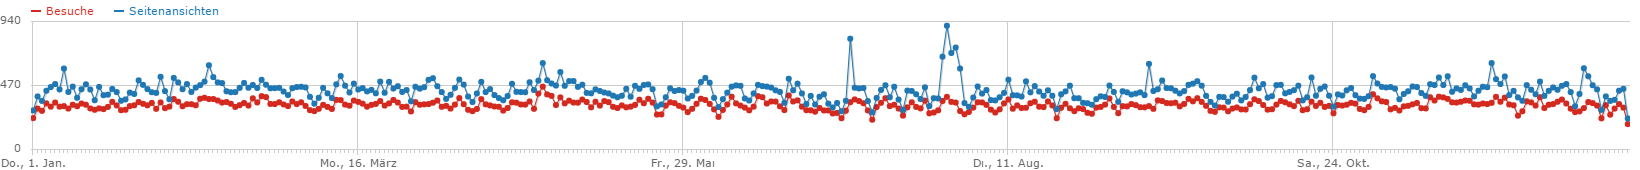
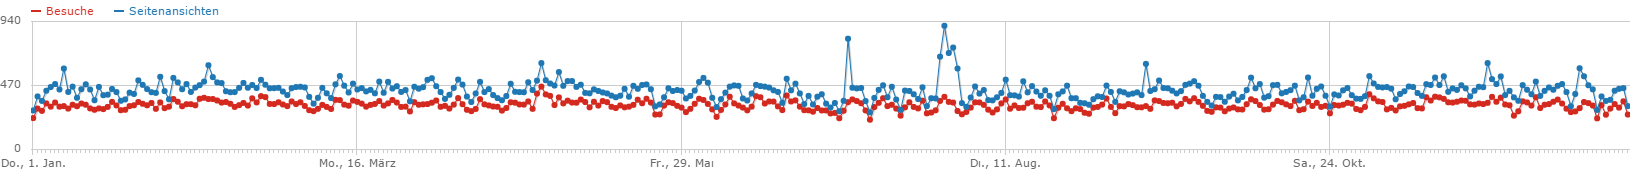
Statistiken im Jahresrückblick aktualisiert

diff --git a/content/artikel/jahresrueckblick-das-war-2015.md b/content/artikel/jahresrueckblick-das-war-2015.md
@@ -37,11 +37,10 @@ Neben Facebook, Twitter und dem RSS-Feed biete ich seit kurzem auch einen [Teleg
 
 ### Statistiken
 Da die meisten Menschen Statistiken und Diagramme mögen, möchte ich auch an dieser Stelle ein paar Kernmetriken aus Piwik vorstellen.
-Stand der Daten ist der 30.12.2015 um ca. 16:00 Uhr (man möge mir die fehlenden 32 Stunden verzeihen).
 
 #### Besucherzahlen
-Insgesamt kommt dieser Blog auf rund 117.100 Besuche im letzten Jahr, was durchschnittlich ca. 9.800 Besuche im Monat bedeutet.
-Im Bezug auf die Seitenansichten liegt der Wert bei rund 157.000 Ansichten im Jahr, bzw. durchschnittlich ca. 13.000 Ansichten im Monat.
+Insgesamt kommt dieser Blog auf rund 117.600 Besuche im letzten Jahr, was durchschnittlich ca. 9.800 Besuche im Monat bedeutet.
+Im Bezug auf die Seitenansichten liegt der Wert bei rund 157.500 Ansichten im Jahr, bzw. durchschnittlich ca. 13.100 Ansichten im Monat.
 
 ![Besucherzahlen](/images/jahresrueckblick-das-war-2015/besucherzahlen.png)
 
@@ -101,11 +100,11 @@ Abschließend noch die verwendeten Betriebssysteme und Browser der Besucher:
 
 | Betriebssystem | Besuche |
 |----------------|---------|
-| Windows 7      | 34,5 %  |
-| Windows 8.1    | 15,8 %  |
+| Windows 7      | 34,4 %  |
+| Windows 8.1    | 15,7 %  |
 | Windows 10     | 8,0 %   |
 | Ubuntu         | 6,6 %   |
-| Mac 10.10      | 5,8 %   |
+| Mac 10.10      | 5,7 %   |
 
 | Browser           | Besuche |
 |-------------------|---------|
